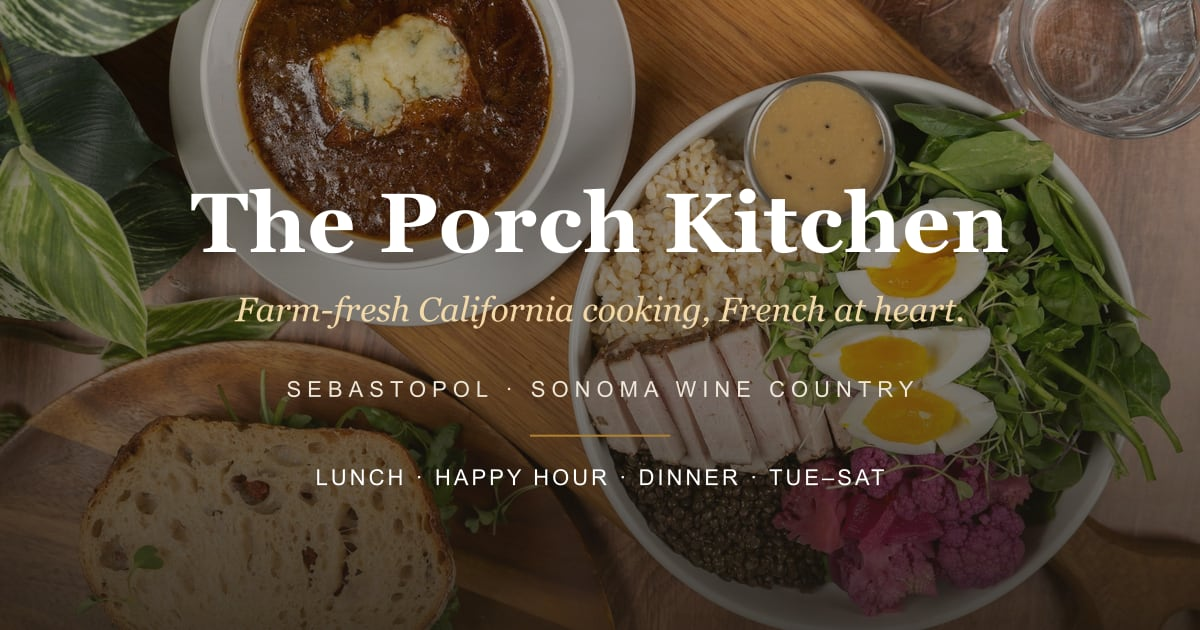
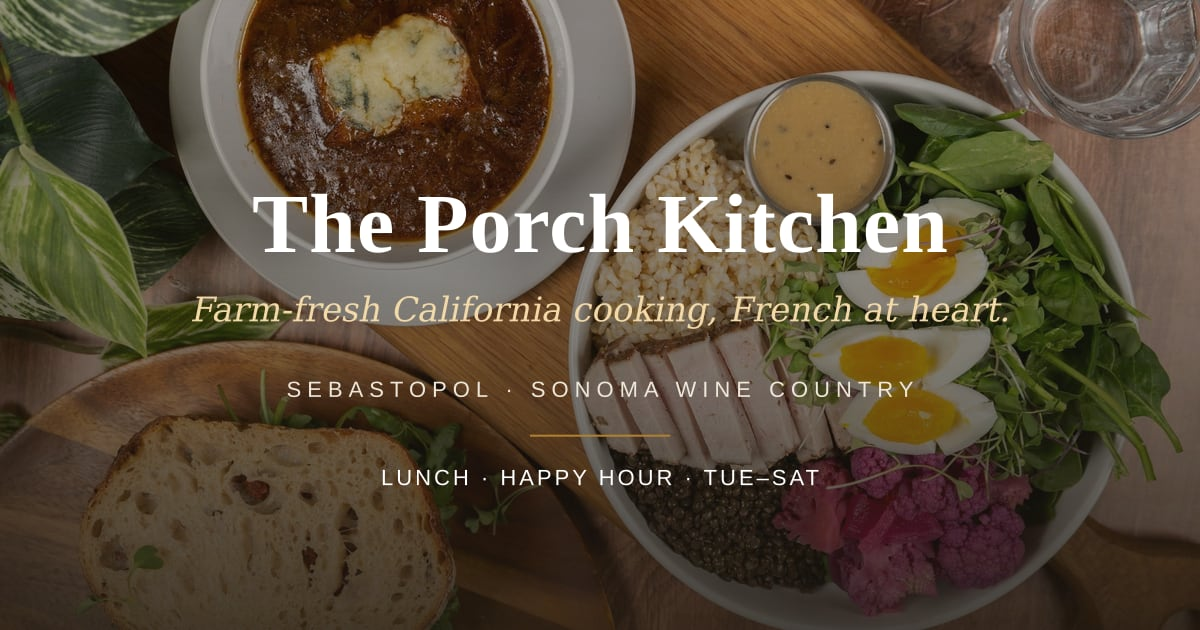
Lunch + happy hour positioning; add full beverage list (#1)
- Drop "dinner" from customer-facing positioning (hero strip, intro, page title, meta description, llms.txt, manifest, package.json, OG card text); social-share image regenerated.
- Add full beverage list — Sonoma & French wines (glass / bottle), three local drafts, six canned beers, four ciders / seltzers + a kettle sour, six non-alcoholic options.
- Render beverages in two places: new Beverages section on the home page (after Happy Hour) and a third block on /menu.
- Shift happy hour days to Wednesday – Saturday everywhere to match the printed card. Restaurant hours unchanged.
- Catering section's wedding / rehearsal dinner copy intentionally preserved (catering jobs, not restaurant service).

diff --git a/src/data/menu.ts b/src/data/menu.ts
@@ -136,7 +136,7 @@ export const mainMenu: Menu = {
 export const happyHourMenu: Menu = {
   id: 'happy-hour',
   title: 'Happy Hour',
-  served: 'Tuesday – Saturday, 3:00 – 6:00pm',
+  served: 'Wednesday – Saturday, 3:00 – 6:00pm',
   sections: [
     {
       title: 'Small Bites',
@@ -181,4 +181,191 @@ export const happyHourMenu: Menu = {
   ],
 };
 
-export const allMenus: Menu[] = [mainMenu, happyHourMenu];
+export const beveragesMenu: Menu = {
+  id: 'beverages',
+  title: 'Beverages',
+  served: 'All day',
+  sections: [
+    {
+      title: 'Sparkling, White & Rosé',
+      note: 'glass / bottle',
+      items: [
+        {
+          name: 'Blanc de Blancs Sparkling Brut',
+          desc: "Crémant d'Alsace, NV, France",
+          priceText: '13 / 39',
+        },
+        {
+          name: 'Brut Rosé Sparkling',
+          desc: 'Baron de Seillac, NV, France',
+          priceText: '9 / 30',
+        },
+        {
+          name: 'Bubbly Rosé',
+          desc: 'Square Peg, California (12 oz can)',
+          priceText: '12 / —',
+        },
+        {
+          name: 'Extra Brut Premier Cru Champagne',
+          desc: "Jean François d'Autreville, NV, France",
+          priceText: '— / 72',
+        },
+        { name: 'Viognier', desc: 'Le Chansac, 2021, France', priceText: '9 / 27' },
+        {
+          name: 'Gewürztraminer',
+          desc: 'Les Comtes de Ribeauvillé, 2016, Alsace, France',
+          priceText: '14 / 42',
+        },
+        {
+          name: 'Sauvignon Blanc',
+          desc: 'La Villaudière, 2024, Loire Valley, France',
+          priceText: '11 / 33',
+        },
+        {
+          name: 'Sancerre',
+          desc: 'Domaine Jean-Paul & Jean-Luc Millet, 2024, Sancerre, France',
+          priceText: '15 / —',
+        },
+        { name: 'Chardonnay', desc: '5 Russians, 2025, Sonoma Coast', priceText: '11 / 33' },
+        { name: 'Rosé Provence', desc: 'Domaine de Beaupré, 2022, France', priceText: '10 / 30' },
+        {
+          name: 'Rosé of Pinot Noir',
+          desc: 'Tongue Dancer Wines, 2025, Sonoma County',
+          priceText: '13 / —',
+        },
+      ],
+    },
+    {
+      title: 'Red Wine',
+      note: 'glass / bottle',
+      items: [
+        { name: 'Beaujolais', desc: 'Pascal Berthier, 2020, France', priceText: '9 / 27' },
+        { name: 'Pinot Noir', desc: '5 Russians, 2023, Sonoma Coast', priceText: '10 / 30' },
+        {
+          name: 'Pinot Noir',
+          desc: 'Breaking Bread, 2024, Sonoma Coast',
+          priceText: '15 / —',
+        },
+        { name: 'Malbec', desc: 'Clos La Coutale, 2023, France', priceText: '11 / 33' },
+        {
+          name: 'Red Blend',
+          desc: 'Peterson Winery, 2021, Dry Creek Valley',
+          priceText: '14 / —',
+        },
+      ],
+    },
+    {
+      title: 'Beer — On Tap',
+      items: [
+        {
+          name: 'Happy Hops IPA',
+          desc: 'Russian River Brewing · 16 oz · 6.5% ABV',
+          price: 7.5,
+        },
+        {
+          name: 'Bukovany Five Czech Pils',
+          desc: 'Old Caz · 16 oz · 5.1% ABV',
+          price: 7.5,
+        },
+        {
+          name: 'Damnation Belgian Golden Ale',
+          desc: 'Russian River Brewing · 12 oz pour · 7.5% ABV',
+          price: 7.5,
+        },
+      ],
+    },
+    {
+      title: 'Beer — Cans',
+      items: [
+        {
+          name: 'Taco Truck Lager',
+          desc: 'Dust Bowl Brewing · 16 oz · 4.7% ABV',
+          price: 7,
+        },
+        {
+          name: 'Black Pearl Oyster Lager',
+          desc: 'Iron Ox Brewing · 16 oz · 5.1% ABV',
+          price: 7,
+        },
+        {
+          name: 'Free Craisg Tropical Hazy IPA',
+          desc: 'Old Caz · 16 oz · 6.9% ABV',
+          price: 8,
+        },
+        {
+          name: 'Kaleidoscope Hazy IPA',
+          desc: 'Parliament Brewing · 16 oz · 6.9% ABV',
+          price: 8,
+        },
+        {
+          name: 'Adamoxium IPA',
+          desc: 'Iron Ox Brewing · 16 oz · 6.9% ABV',
+          price: 8,
+        },
+        {
+          name: 'Revision Double IPA',
+          desc: 'Revision Brewing · 16 oz · 8% ABV',
+          price: 8.5,
+        },
+      ],
+    },
+    {
+      title: 'Cider, Seltzer & Sour',
+      items: [
+        {
+          name: 'Scarlett Cider',
+          desc: 'Ethic Ciders · local apples, blackberries & raspberries · 16 oz · 7.5% ABV',
+          price: 8,
+        },
+        {
+          name: 'Brut Cider',
+          desc: 'Le Père Jules, France · farmhouse style · 11 oz · 5% ABV',
+          price: 7,
+        },
+        {
+          name: 'Sparklepants Seltzer',
+          desc: 'Cactus Coopa, Cooperage Brewing · orange & pineapple · 16 oz · 6.6% ABV',
+          price: 7,
+        },
+        {
+          name: 'Passionfruit Guava Seltzer',
+          desc: 'Belching Beaver Brewing · 12 oz · 5.5% ABV',
+          price: 6,
+        },
+        {
+          name: 'Fruitception POG Kettle Sour',
+          desc: 'Cooperage · passionfruit, orange, guava · 16 oz · 5.3% ABV',
+          price: 8,
+        },
+      ],
+    },
+    {
+      title: 'Non-Alcoholic',
+      items: [
+        {
+          name: 'House Hibiscus Mint Tea',
+          desc: 'Fresh-brewed, slightly sweet',
+          price: 5,
+          tags: ['ve', 'gf'],
+        },
+        {
+          name: 'Ethic Sparkling Apple Tonic',
+          desc: 'Local apples, ACV, refreshing',
+          price: 5.5,
+          tags: ['ve', 'gf'],
+        },
+        { name: 'San Pellegrino Sparkling Water', price: 3, tags: ['ve', 'gf'] },
+        { name: 'San Pellegrino Aranciata', desc: 'Orange', price: 3.5, tags: ['ve', 'gf'] },
+        { name: 'San Pellegrino Limonata', desc: 'Lemon', price: 3.5, tags: ['ve', 'gf'] },
+        {
+          name: 'OliPop Sodas',
+          desc: 'Root beer, ginger ale, cherry vanilla',
+          price: 3.5,
+          tags: ['ve', 'gf'],
+        },
+      ],
+    },
+  ],
+};
+
+export const allMenus: Menu[] = [mainMenu, happyHourMenu, beveragesMenu];

diff --git a/src/data/site.ts b/src/data/site.ts
@@ -8,10 +8,10 @@ export const site = {
   parent: 'The Cook & The Drummer',
   tagline: 'Farm-fresh California cooking, French at heart.',
   shortDescription:
-    'Farm-fresh California lunch, happy hour and dinner in Sebastopol, from chef Lisa Boisset of The Cook & The Drummer. Everything made by hand — French-style sandwiches, artisan salads, grain bowls, and a Tuesday–Saturday happy hour with draft beer and local wine.',
+    'Farm-fresh California lunch and happy hour in Sebastopol, from chef Lisa Boisset of The Cook & The Drummer. Everything made by hand — French-style sandwiches, artisan salads, grain bowls, and a Tuesday–Saturday happy hour with draft beer and local wine.',
   // Used as the meta description on the home page (keep ~150–160 chars).
   metaDescription:
-    'The Porch Kitchen in Sebastopol — farm-fresh California cooking, French at heart. Lunch, happy hour & dinner Tue–Sat. House-made sandwiches, salads, grain bowls. Order online.',
+    'The Porch Kitchen in Sebastopol — farm-fresh California cooking, French at heart. Lunch & happy hour Tue–Sat. House-made sandwiches, salads, grain bowls. Order online.',
 
   // ── Contact / location ──────────────────────────────────────────────
   url: 'https://theporchkitchen.com',
@@ -42,8 +42,8 @@ export const site = {
     { label: 'Tuesday – Saturday', value: '11:00am – 8:00pm' },
     { label: 'Sunday – Monday', value: 'Closed' },
   ],
-  happyHour: { days: 'Tuesday – Saturday', time: '3:00 – 6:00pm' },
-  serviceSummary: 'Lunch · Happy Hour · Dinner — Tuesday through Saturday',
+  happyHour: { days: 'Wednesday – Saturday', time: '3:00 – 6:00pm' },
+  serviceSummary: 'Lunch · Happy Hour — Tuesday through Saturday',
 
   cuisine: ['Californian', 'French', 'New American', 'Cafe'],
   priceRange: '$$',
